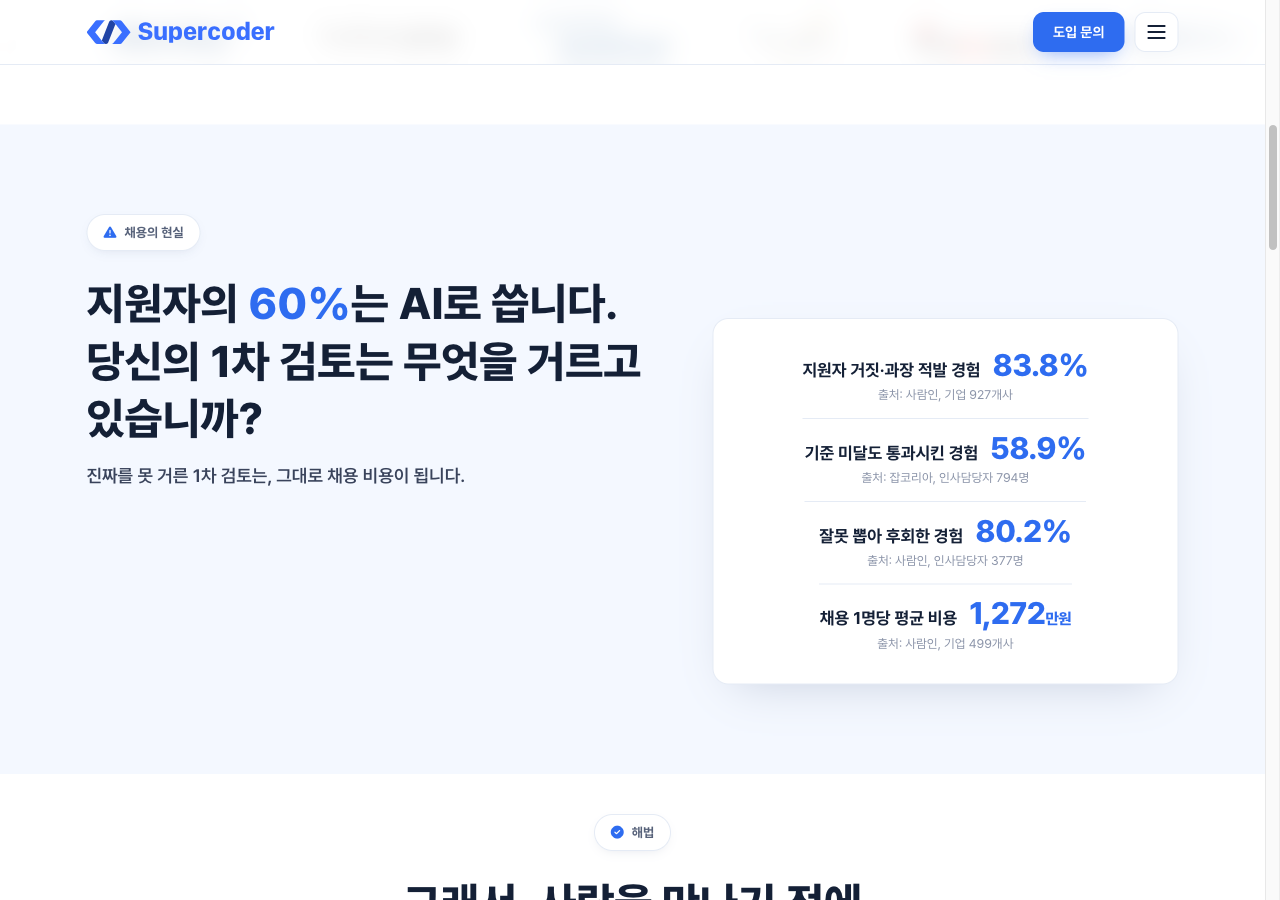
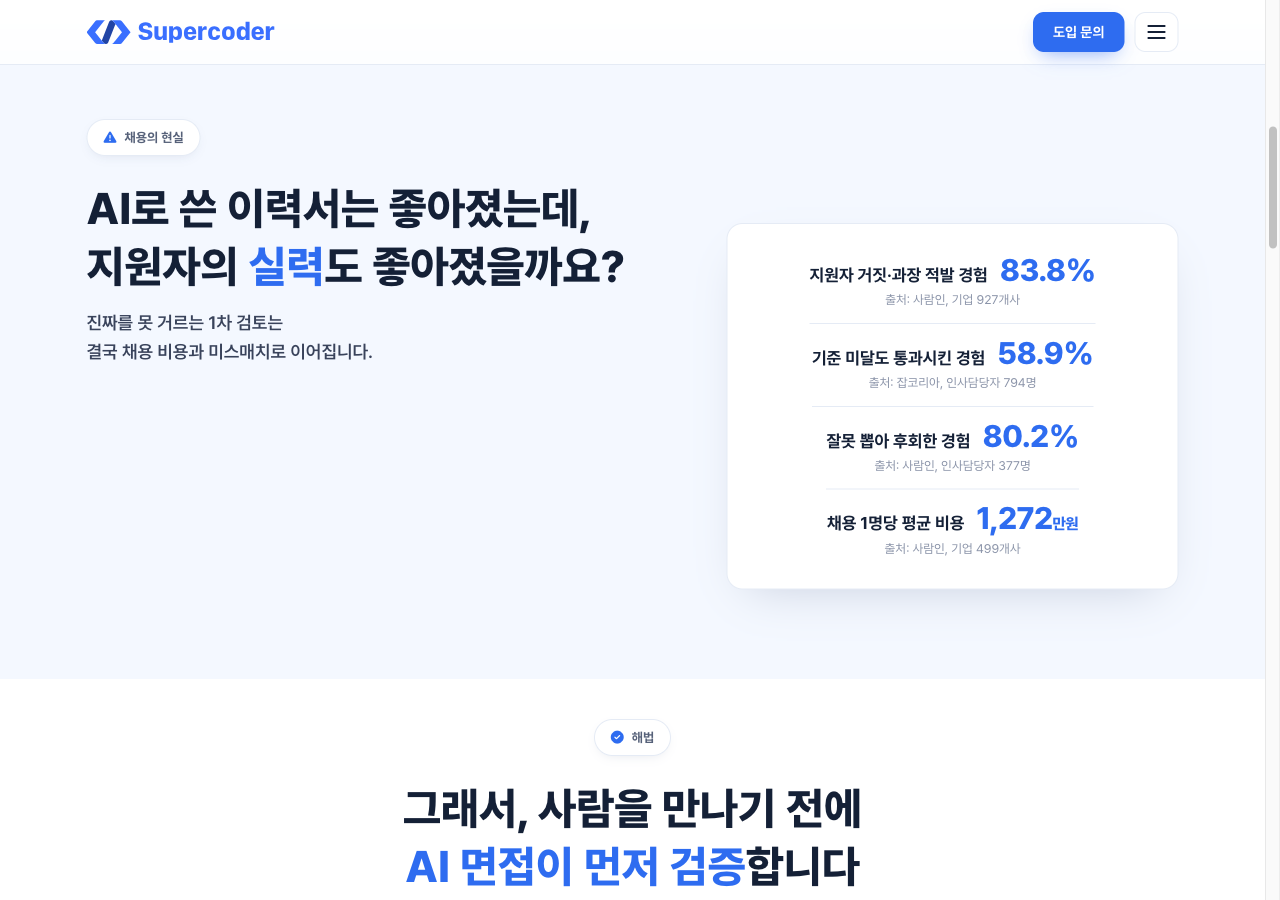
FLOOD: 헤드/서브 카피 교체 + 좌·우 박스 간격 여유 확보
- 카피: 헤드라인 'AI로 쓴 이력서는 좋아졌는데,/지원자의 실력도 좋아졌을까요?'(핵심
  의문어 '실력' .blue 강조 — hero '진짜'·VALUE '검증'과 동일 패턴), 서브카피
  '진짜를 못 거르는 1차 검토는/결국 채용 비용과 미스매치로 이어집니다.'(2줄, .lead 유지).
- 레이아웃(≥881px): 헤드 컬럼은 헤드라인 2줄 유지폭(자연폭 539px 측정) 확보,
  통계 카드 폭 520→452로 좁히고 컬럼 간격 56→80px → 두 박스 사이 숨통.
- 검증: 데스크톱 헤드라인 2줄·통계행 1줄 유지, 모바일 1단 스택 정상. Playwright 측정·스크린샷.

diff --git a/index.html b/index.html
@@ -389,8 +389,9 @@
     }
     /* FLOOD 통계 카드: 헤드카피보다 아래에서 시작(오프셋) + 컬럼을 채워 영역 확대 */
     .flood-stats{margin:104px auto 0;width:100%;max-width:520px}
-    /* FLOOD는 좌측 헤드 첫 줄이 길어 좌측 컬럼을 넓힘(줄바꿈 방지) */
-    .flood .wrap{grid-template-columns:minmax(0,1.1fr) minmax(0,0.9fr)}
+    /* FLOOD: 좌 카피·우 통계 사이 여유 확보 — 헤드 컬럼은 헤드라인 2줄 유지폭(≥539px) 확보,
+       통계 카드는 좁혀(행은 ~291px까지 안전) 간격 80px로 숨통. */
+    .flood .wrap{grid-template-columns:minmax(0,1.24fr) minmax(0,1fr);gap:80px}
     /* ROLE 깔때기: FLOOD 통계 박스처럼 헤드카피보다 아래에서 시작(동일 오프셋) */
     .role-funnel .funnel3{margin:104px 0 0}
     /* ROLE 깔때기 확대 — 헤드 컬럼/줄바꿈은 그대로 두고 그래프만 우측 기준으로 키움(화면 밖 넘침 방지) */
@@ -475,8 +476,8 @@
   <div class="wrap">
     <div class="head">
       <div class="tagchip"><i class="fa-solid fa-triangle-exclamation"></i> 채용의 현실</div>
-      <h2>지원자의 <span class="blue">60%</span>는 AI로 씁니다.<br>당신의 1차 검토는 무엇을 거르고 있습니까?</h2>
-      <p class="lead">진짜를 못 거른 1차 검토는, 그대로 채용 비용이 됩니다.</p>
+      <h2>AI로 쓴 이력서는 좋아졌는데,<br>지원자의 <span class="blue">실력</span>도 좋아졌을까요?</h2>
+      <p class="lead">진짜를 못 거르는 1차 검토는<br>결국 채용 비용과 미스매치로 이어집니다.</p>
     </div>
     <ul class="flood-stats">
         <li>
